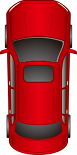
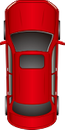
car added and limits set

diff --git a/car.py b/car.py
@@ -4,7 +4,7 @@ import random
 
 pygame.init()
 display_h = 500
-display_w = 720
+display_w = 740
 black = (0,0,0)
 white = (255,255,255)
 car_width = 77
@@ -12,9 +12,22 @@ gameD = pygame.display.set_mode((display_w,display_h))
 pygame.display.set_caption('Watch Out')
 clock = pygame.time.Clock()
 carimg = pygame.image.load('1.png')
+carimg1 = pygame.image.load('2.png')
+carimg2 = pygame.image.load('3.png')
+carimg3 = pygame.image.load('4.png')
+carimg4 = pygame.image.load('6.png')
+carimg5 = pygame.image.load('7.png')
+carimg6 = pygame.image.load('5.png')
 
-def things(thingx, thingy, thingw, thingh, color):
-    pygame.draw.rect(gameD, color, [thingx, thingy, thingw, thingh])
+foo = [carimg1,carimg2,carimg3,carimg4,carimg5,carimg6]
+    
+def things_dodged(count):
+    font=pygame.font.SysFont(None, 25)
+    text=font.render("Dodged: "+ str(count), True, black)
+    gameD.blit(text, (0,0))
+
+def things(img, thingx, thingy):
+    gameD.blit(img, (thingx, thingy))
 
 def car(x,y):
     gameD.blit(carimg,(x,y))
@@ -47,9 +60,9 @@ def gameloop():
     thing_startx = random.randrange(0, display_w)
     thing_starty = -600
     thing_speed = 7
-    thing_width = 100
-    thing_height = 100
-
+    thing_width = 65
+    thing_height = 130
+    dodged=0
     while not gameexit:
         for event in pygame.event.get():
             if event.type == pygame.QUIT:
@@ -72,21 +85,26 @@ def gameloop():
         x+=x_change    
         y+=y_change
         gameD.fill(white)
-        things(thing_startx, thing_starty, thing_width, thing_height, black)
+        if thing_starty<-100:
+            img=random.choice(foo)    
+
+        things(img, thing_startx, thing_starty)
         thing_starty += thing_speed
         
         car(x,y)
-        
+        things_dodged(dodged)
         if x > display_w - car_width or x < 0:
             crash()
         
         if thing_starty > display_h:
             thing_starty = 0 - thing_height
             thing_startx = random.randrange(0, display_w)
+            img=random.choice(foo)    
+            dodged += 1
 
-        if y < thing_starty + thing_height:    
-            
-            if x>thing_startx and x<thing_startx +thing_width or x+car_width>thing_startx and x+car_width<thing_startx+thing_width:
+
+        if y < thing_starty + thing_height and y+155>thing_starty:    
+            if x>=thing_startx and x<=thing_startx +thing_width or x+car_width>=thing_startx and x+car_width<=thing_startx+thing_width:
                 crash()
         pygame.display.update()
         clock.tick(60)
